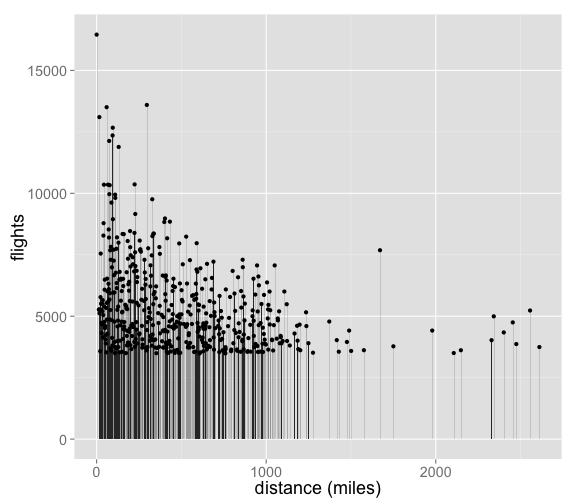
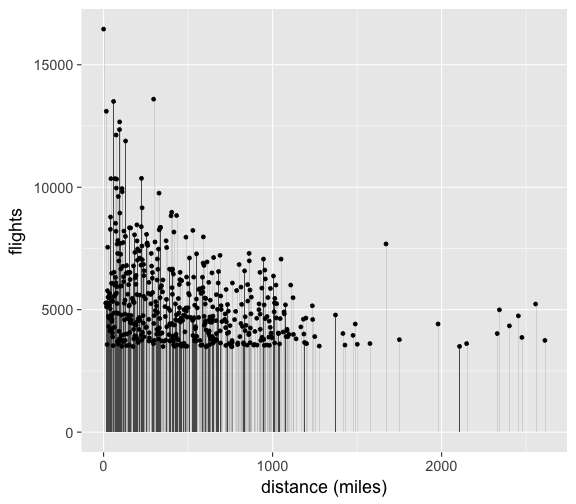
added code of conduct - fix #19 addded mor docs update all man files for new roxygen2 updated news and cran comments

diff --git a/README.md b/README.md
@@ -4,7 +4,6 @@ enigma
 
 
 [![Build Status](https://api.travis-ci.org/rOpenGov/enigma.png)](https://travis-ci.org/rOpenGov/enigma)
-<!-- [![Coverage Status](https://coveralls.io/repos/rOpenGov/enigma/badge.svg)](https://coveralls.io/r/rOpenGov/enigma) -->
 [![codecov.io](https://codecov.io/github/rOpenGov/enigma/coverage.svg?branch=master)](https://codecov.io/github/rOpenGov/enigma?branch=master)
 [![rstudio mirror downloads](http://cranlogs.r-pkg.org/badges/grand-total/enigma)](https://github.com/metacran/cranlogs.app)
 [![cran version](http://www.r-pkg.org/badges/version/enigma)](https://cran.r-project.org/package=enigma)
@@ -35,7 +34,6 @@ Or development version from GitHub
 
 
 ```r
-install.packages("devtools")
 devtools::install_github("ropengov/enigma")
 ```
 
@@ -44,11 +42,14 @@ devtools::install_github("ropengov/enigma")
 library("enigma")
 ```
 
-### Get data
+## Get data
 
 
 ```r
-out <- enigma_data(dataset='us.gov.whitehouse.visitor-list', select=c('namelast','visitee_namelast','last_updatedby'))
+out <- enigma_data(
+  dataset = 'us.gov.whitehouse.visitor-list', 
+  select = c('namelast', 'visitee_namelast', 'last_updatedby')
+)
 ```
 
 Some metadata on the results
@@ -60,19 +61,19 @@ out$info
 #> [1] 500
 #> 
 #> $total_results
-#> [1] 4462510
+#> [1] 5994713
 #> 
 #> $total_pages
-#> [1] 8926
+#> [1] 11990
 #> 
 #> $current_page
 #> [1] 1
 #> 
 #> $calls_remaining
-#> [1] 49914
+#> [1] 49764
 #> 
 #> $seconds_remaining
-#> [1] 2084748
+#> [1] 957301
 ```
 
 Look at the data, first 6 rows for readme brevity
@@ -80,21 +81,26 @@ Look at the data, first 6 rows for readme brevity
 
 ```r
 head(out$result)
-#>   namelast visitee_namelast last_updatedby
-#> 1 MATTHEWS            POTUS             LC
-#> 2    DOYLE            POTUS             B3
-#> 3 MATTHEWS            POTUS             LC
-#> 4   MALONE            POTUS             DC
-#> 5   WILSON            POTUS             DC
-#> 6    ABEBE            POTUS             GB
+#> # A tibble: 6 × 3
+#>      namelast visitee_namelast last_updatedby
+#>         <chr>            <chr>          <chr>
+#> 1 Adamopoulos             <NA>           <NA>
+#> 2     Brosman             <NA>           <NA>
+#> 3   Brumfield             <NA>           <NA>
+#> 4     Chipman             <NA>           <NA>
+#> 5       Chubb             <NA>           <NA>
+#> 6   Colasante             <NA>           <NA>
 ```
 
 
-### Statistics on dataset columns
+## Statistics on dataset columns
 
 
 ```r
-out <- enigma_stats(dataset='us.gov.whitehouse.visitor-list', select='total_people')
+out <- enigma_stats(
+  dataset = 'us.gov.whitehouse.visitor-list', 
+  select = 'total_people'
+)
 ```
 
 Some summary stats
@@ -103,16 +109,16 @@ Some summary stats
 ```r
 out$result[c('sum','avg','stddev','variance','min','max')]
 #> $sum
-#> [1] "1245086302"
+#> [1] "1626083121"
 #> 
 #> $avg
-#> [1] "280.4864992845274096"
+#> [1] "272.5916137604454583"
 #> 
 #> $stddev
-#> [1] "533.430430655024"
+#> [1] "599.377962130311"
 #> 
 #> $variance
-#> [1] "284548.024348804258"
+#> [1] "359253.941487484525"
 #> 
 #> $min
 #> [1] "0"
@@ -128,20 +134,20 @@ Frequency details
 ```r
 head(out$result$frequency)
 #>   total_people  count
-#> 1            1 205885
-#> 2            6 126360
-#> 3            2 124847
-#> 4            4 101829
-#> 5            3 100926
-#> 6          275  89107
+#> 1            1 286296
+#> 2            6 224602
+#> 3            2 197491
+#> 4            4 181489
+#> 5            3 160771
+#> 6            5 151562
 ```
 
 
-### Metadata on datasets
+## Metadata on datasets
 
 
 ```r
-out <- enigma_metadata(dataset='us.gov.whitehouse')
+out <- enigma_metadata(dataset = 'us.gov.whitehouse')
 ```
 
 Paths
@@ -157,10 +163,13 @@ out$info$paths
 #> [1] "United States"
 #> 
 #> [[1]]$description
-#> [1] "United States of America"
+#> [1] "Data concerning, or published by, the federal government of the United States of America."
 #> 
 #> [[1]]$description_lead
-#> [1] "United States of America"
+#> [1] "Data concerning, or published by, the federal government of the United States of America."
+#> 
+#> [[1]]$citations
+#> list()
 #> 
 #> 
 #> [[2]]
@@ -176,6 +185,9 @@ out$info$paths
 #> [[2]]$description_lead
 #> [1] "Government comprising the Legislative, Executive, and Judicial branches of the United States of America."
 #> 
+#> [[2]]$citations
+#> list()
+#> 
 #> 
 #> [[3]]
 #> [[3]]$level
@@ -189,6 +201,9 @@ out$info$paths
 #> 
 #> [[3]]$description_lead
 #> [1] "Located at 1600 Pennsylvania Avenue in Washington D.C., the White House has served as the home and office for every U.S. president since John Adams."
+#> 
+#> [[3]]$citations
+#> list()
 ```
 
 Immediate nodes
@@ -217,7 +232,7 @@ out$info$children_tables[[1]]
 #> [1] "us.gov.whitehouse.visitor-list"
 #> 
 #> $label
-#> [1] "Visitor Records"
+#> [1] "White House Visitor Records"
 #> 
 #> $description
 #> [1] "Records of visitors to the White House from September 2009 to present."
@@ -230,7 +245,7 @@ out$info$children_tables[[1]]
 ```
 
 
-### Use case: Plot frequency of flight distances
+## Use case: Plot frequency of flight distances
 
 First, get columns for the air carrier dataset
 
@@ -252,7 +267,7 @@ Looks like there's a column called _distance_ that we can search on. We by defau
 
 
 ```r
-out <- enigma_stats(dset, select='distance')
+out <- enigma_stats(dset, select = 'distance')
 head(out$result$frequency)
 #>   distance count
 #> 1     0.00 16456
@@ -269,17 +284,18 @@ Then we can do a bit of tidying and make a plot
 ```r
 library("ggplot2")
 df <- out$result$frequency
-df <- data.frame(distance=as.numeric(df$distance), count=as.numeric(df$count))
+df <- data.frame(distance = as.numeric(df$distance), 
+                 count = as.numeric(df$count))
 ggplot(df, aes(distance, count)) +
-  geom_bar(stat="identity") +
+  geom_bar(stat = "identity") +
   geom_point() +
   theme_grey(base_size = 18) +
-  labs(y="flights", x="distance (miles)")
+  labs(y = "flights", x = "distance (miles)")
 ```
 
-![plot of chunk unnamed-chunk-17](inst/assets/figure/unnamed-chunk-17-1.png) 
+![plot of chunk unnamed-chunk-17](inst/assets/figure/unnamed-chunk-17-1.png)
 
-### Direct dataset download
+## Direct dataset download
 
 Enigma provides an endpoint `.../export/<datasetid>` to download a zipped csv file of the entire dataset.
 
@@ -288,3 +304,7 @@ Enigma provides an endpoint `.../export/<datasetid>` to download a zipped csv fi
 ```r
 enigma_fetch(dataset='com.crunchbase.info.companies.acquisition')
 ```
+
+## Meta
+
+* Please note that this project is released with a [Contributor Code of Conduct](CONDUCT.md). By participating in this project you agree to abide by its terms.

diff --git a/CONDUCT.md b/CONDUCT.md
@@ -1,0 +1,25 @@
+# Contributor Code of Conduct
+
+As contributors and maintainers of this project, we pledge to respect all people who 
+contribute through reporting issues, posting feature requests, updating documentation,
+submitting pull requests or patches, and other activities.
+
+We are committed to making participation in this project a harassment-free experience for
+everyone, regardless of level of experience, gender, gender identity and expression,
+sexual orientation, disability, personal appearance, body size, race, ethnicity, age, or religion.
+
+Examples of unacceptable behavior by participants include the use of sexual language or
+imagery, derogatory comments or personal attacks, trolling, public or private harassment,
+insults, or other unprofessional conduct.
+
+Project maintainers have the right and responsibility to remove, edit, or reject comments,
+commits, code, wiki edits, issues, and other contributions that are not aligned to this 
+Code of Conduct. Project maintainers who do not follow the Code of Conduct may be removed 
+from the project team.
+
+Instances of abusive, harassing, or otherwise unacceptable behavior may be reported by 
+opening an issue or contacting one or more of the project maintainers.
+
+This Code of Conduct is adapted from the Contributor Covenant 
+(http:contributor-covenant.org), version 1.0.0, available at 
+http://contributor-covenant.org/version/1/0/0/

diff --git a/cran-comments.md b/cran-comments.md
@@ -1,12 +1,28 @@
-R CMD CHECK passed on my local OS X install on R 3.2.1 and R development
-version, Ubuntu running on Travis-CI, and Win builder.
+## Test environments
 
-This submission fixes a number of broken functions due to the
-recent update in httr on CRAN to v1.0.
+* local OS X install, R 3.3.2
+* ubuntu 12.04 (on travis-ci), R 3.3.2
+* win-builder (devel and release)
+* R-hub (Windows R-devel, Ubuntu R-release, Fedora R-devel)
 
-In addition, this package now imports non-base functions explicitly as
-needed in accordance with R-devel changes.
+## R CMD check results
 
-Additional fixes/changes were made to keep up with changes in the Enigma.io APIs.
+0 errors | 0 warnings | 1 note
 
-Thanks! Scott Chamberlain
+   License components with restrictions and base license permitting such:
+     MIT + file LICENSE
+   File 'LICENSE':
+     YEAR: 2017
+     COPYRIGHT HOLDER: Scott Chamberlain
+
+## Reverse dependencies
+
+There are no reverse dependencies.
+
+---
+
+This submission includes improvements to documentation, swaps out a 
+package dependency, and other small changes.
+
+Thanks!
+Scott Chamberlain

diff --git a/NEWS.md b/NEWS.md
@@ -1,5 +1,17 @@
+enigma 0.3.0
+============
+
+### MINOR IMPROVEMENTS
+
+* Improve documentation in each fxn's man page: give URL ror 
+API docs - describe return object, etc. (#19)
+* data.frame's given back as tibble's now (#23)
+* replaced HTTP client `httr` with `crul` (#25)
+* change API key option to use either R option or env var (#20)
+
+
 enigma 0.2.0
-===============
+============
 
 ### NEW FEATURES
 
@@ -13,16 +25,16 @@ brief output (#17)
 ### MINOR IMPROVEMENTS
 
 * Using skip on cran now for tests (#14)
-* Importing all non-base R functions now, including from `methods`, 
+* Importing all non-base R functions now, including from `methods`,
 and `utils` pacakges (#15)
 
 ### BUG FIXES
 
-* Fixed issues related to `httr` `v1` where can no longer pass empty 
+* Fixed issues related to `httr` `v1` where can no longer pass empty
 list to `query` parameter (#13)
 
 enigma 0.1.1
-===============
+============
 
 ### MINOR IMPROVEMENTS
 
@@ -32,7 +44,7 @@ enigma 0.1.1
 
 
 enigma 0.1.0
-===============
+============
 
 ### NEW FEATURES
 
